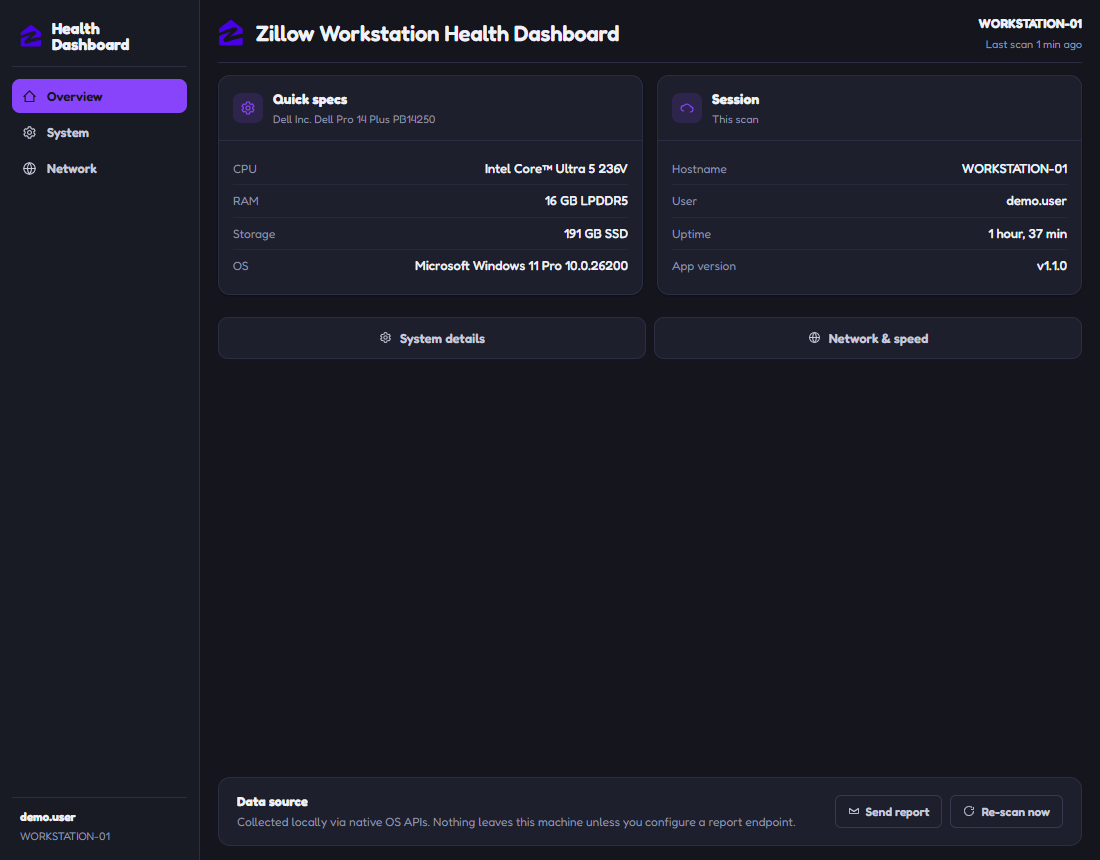
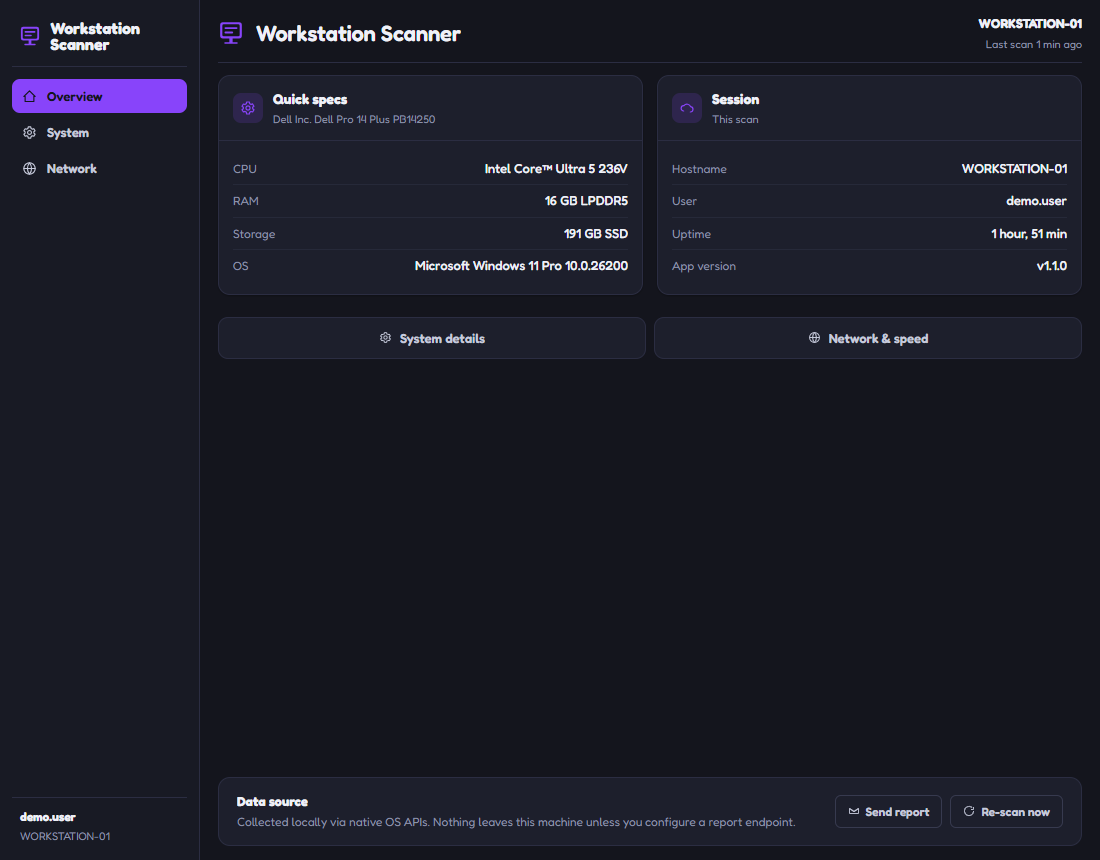
Rename the app to Workstation Scanner and drop the Zillow mark
The product is called Workstation Scanner. The old name and the Zillow
logo it came with are gone: window title, page title, in-app header and
sidebar, README, Postman collection, npm name, productName and the
build's appId.

The mark is now a display showing two readings, drawn to stay legible
once Windows scales it to 16px, on the app's own accent colour rather
than the blue it borrowed. Icons, the window icon and the README
screenshots are regenerated from it.

appId moves to com.evontroy.workstation-scanner. Nothing has been
released under the old id, so no installed copy is orphaned by the
change; a future release would have carried the old name in its install
path and settings location forever.

Changed region(s): [[0.1855, 0.0302, 0.5873, 0.0605], [0.0, 0.0302, 0.1236, 0.0605], [0.8964, 0.2419, 0.9582, 0.3023]]

diff --git a/main.js b/main.js
@@ -1,7 +1,7 @@
 // ═══════════════════════════════════════════════════════
 //  ELECTRON MAIN PROCESS
 //
-//  Hosts the Workstation Health Dashboard UI (renderer at
+//  Hosts the Workstation Scanner UI (renderer at
 //  app/renderer). The main process collects real system
 //  facts via systeminformation and exposes them to the
 //  renderer over the `window.whd` bridge (see app/preload.js).
@@ -23,7 +23,7 @@ function createWindow() {
     height: 860,
     minWidth: 920,
     minHeight: 680,
-    title: "Zillow Workstation Health Dashboard",
+    title: "Workstation Scanner",
     // Packaged builds take the icon from electron-builder; setting it here is
     // what gives `npm start` a branded window and taskbar entry too.
     icon: path.join(APP_DIR, "renderer", "assets", "logo", "icon-256.png"),

diff --git a/tools/make-icons.js b/tools/make-icons.js
@@ -1,6 +1,6 @@
 // make-icons.js — generates the app icon set from the brand mark.
 //
-// Renders assets/logo/logo-mark.svg onto a rounded brand-blue tile at every
+// Renders assets/logo/logo-mark.svg onto a rounded accent-coloured tile at every
 // size Windows, macOS and Linux want, then packs the Windows sizes into a
 // multi-resolution .ico. Output goes to build/, which electron-builder picks
 // up automatically (it is the default buildResources directory).
@@ -15,7 +15,7 @@ const ROOT = path.join(__dirname, "..");
 const BUILD = path.join(ROOT, "build");
 const ICONS_DIR = path.join(BUILD, "icons");
 
-const BRAND = "#0041D9"; // the mark's own blue, used as the tile
+const BRAND = "#7d6bee"; // --accent from the app's theme, used as the tile
 const ICO_SIZES = [16, 24, 32, 48, 64, 128, 256];
 const PNG_SIZES = [16, 32, 48, 64, 128, 256, 512, 1024];
 

diff --git a/app/renderer/helper-app.jsx b/app/renderer/helper-app.jsx
@@ -94,7 +94,7 @@ function Header() {
       <div className="brand">
         <Logo size={26} />
         <div>
-          <div className="brand-name">Zillow Workstation Health Dashboard</div>
+          <div className="brand-name">Workstation Scanner</div>
         </div>
       </div>
       <div className="head-right">
@@ -204,7 +204,7 @@ function Sidebar({ active, onChange }) {
       <div className="sb-brand">
         <Logo size={22} />
         <div>
-          <div className="sb-name">Health Dashboard</div>
+          <div className="sb-name">Workstation Scanner</div>
         </div>
       </div>
       <nav className="sb-nav" aria-label="Dashboard sections">

diff --git a/app/renderer/assets/colors_and_type.css b/app/renderer/assets/colors_and_type.css
@@ -1,5 +1,5 @@
 /* ============================================================
-   Workstation Health Dashboard — Colors & Type Tokens
+   Workstation Scanner — Colors & Type Tokens
    ============================================================ */
 
 /* Local brand font — variable Fredoka (weight 300–700, width 75–125).

diff --git a/app/renderer/index.html b/app/renderer/index.html
@@ -2,7 +2,7 @@
 <html lang="en">
 <head>
 <meta charset="UTF-8" />
-<title>Zillow Workstation Health Dashboard</title>
+<title>Workstation Scanner</title>
 <meta name="viewport" content="width=device-width, initial-scale=1.0" />
 <!--
   Everything the page loads ships inside the app — no CDN, no runtime JSX

diff --git a/app/renderer/helper.css b/app/renderer/helper.css
@@ -1,4 +1,4 @@
-/* helper.css — styles for the Workstation Health Dashboard UI */
+/* helper.css — styles for the Workstation Scanner UI */
 @import url("assets/colors_and_type.css");
 @import url("assets/theme.css");
 

diff --git a/README.md b/README.md
@@ -1,4 +1,4 @@
-# Zillow Workstation Health Dashboard
+# Workstation Scanner
 
 This application reports on a computer's health —
 CPU, RAM, disk, OS, network, antivirus, and audio — and runs a real network
@@ -81,7 +81,7 @@ See [`postman/README.md`](postman/README.md) for what each request checks.
 ## Project structure
 
 ```
-Workstation-Health-Dashboard/
+Workstation-Scanner/
 ├── main.js                  # Electron main process (window + IPC)
 ├── build.js                 # renderer build: vendors React, bundles the JSX
 ├── build/                   # app icons (generated by `npm run icons`)
